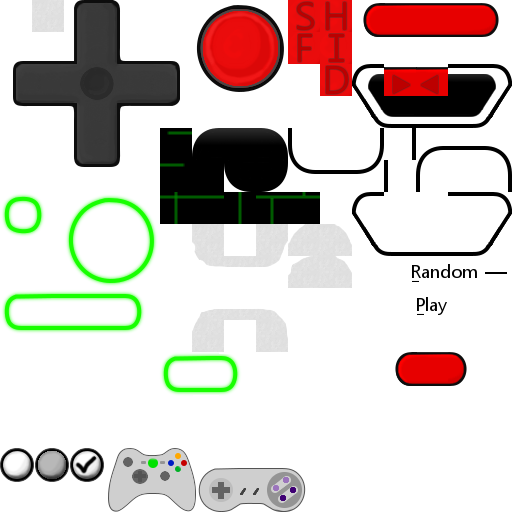
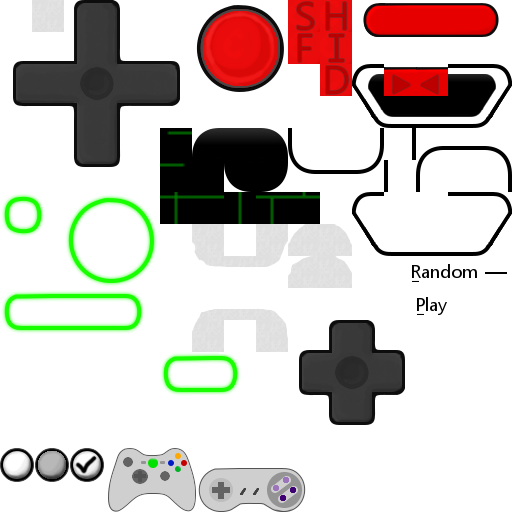
Added cost indicator checkmarks for Cubimals

Changed region(s): [[0.5625, 0.625, 0.9062, 0.8438]]

diff --git a/src/friends.js b/src/friends.js
@@ -22,6 +22,9 @@ RocketTux.Friends.prototype = {
 		this.bgImage.width = this.game.width;
 		this.bgImage.play('stand');
 		this.bgImage.fixedToCamera = true;
+		
+		//Sounds
+		this.sndFail = this.game.add.audio('collide');
 			
 		// Load menu tilemaps and draw game device
 		this.makeMenu();
@@ -53,11 +56,11 @@ RocketTux.Friends.prototype = {
 		this.btFR = this.game.add.button(422, 606, 'ui-map', this.pageFR, this, 'glow-recsml-over', 'glow-recsml-out', 'glow-recsml-down');
 		this.btH = this.game.add.button(255, 609, 'ui-map', this.helpF, this, 'glow-cir-over', 'glow-cir-out', 'glow-cir-down');
 		
-		this.btDpadUp = this.game.add.button(842, 511, 'ui-map', this.cMoveU, this, 'glow-sqr-over', 'glow-sqr-out', 'glow-sqr-down');
-		this.btDpadDown = this.game.add.button(842, 632, 'ui-map', this.cMoveD, this, 'glow-sqr-over', 'glow-sqr-out', 'glow-sqr-down');
-		this.btDpadLeft = this.game.add.button(780, 571, 'ui-map', this.cMoveL, this, 'glow-sqr-over', 'glow-sqr-out', 'glow-sqr-down');
-		this.btDpadRight = this.game.add.button(902, 571, 'ui-map', this.cMoveR, this, 'glow-sqr-over', 'glow-sqr-out', 'glow-sqr-down');	
-		this.btS = this.game.add.button(1055, 545, 'ui-map', this.cSet, this, 'glow-cir-over', 'glow-cir-out', 'glow-cir-down');
+		this.btDpadUp = this.game.add.button(841, 575, 'ui-map', this.cMoveU, this, 'glow-sqr-over', 'glow-sqr-out', 'glow-sqr-down');
+		this.btDpadDown = this.game.add.button(841, 634, 'ui-map', this.cMoveD, this, 'glow-sqr-over', 'glow-sqr-out', 'glow-sqr-down');
+		this.btDpadLeft = this.game.add.button(809, 603, 'ui-map', this.cMoveL, this, 'glow-sqr-over', 'glow-sqr-out', 'glow-sqr-down');
+		this.btDpadRight = this.game.add.button(873, 603, 'ui-map', this.cMoveR, this, 'glow-sqr-over', 'glow-sqr-out', 'glow-sqr-down');	
+		this.btS = this.game.add.button(1055, 577, 'ui-map', this.cSet, this, 'glow-cir-over', 'glow-cir-out', 'glow-cir-down');
 				
 		// Screen lines
 		var scrLines = this.game.add.graphics();
@@ -132,13 +135,27 @@ RocketTux.Friends.prototype = {
 		
 		// Cubimal cost icons
 		this.cIcons = this.game.add.group();
+		this.cCheck = this.game.add.group();
 		for (i = 0; i < 4; i++){
-			tmpIcon = this.cIcons.create(838 + (i*48), 436, 'atlas');
-			this.cIcons.visible = false;
-		}	
+			tmpIcon = this.cIcons.create(838 + (i*48), 436, 'atlas');	
+			
+			tempCheck = this.cCheck.create(846 + (i*48), 478, 'ui-map');
+			tempCheck.frameName = 'check-selected';
+			tempCheck.fixedToCamera = true;
+			tempCheck.tint = '0x1EDC00';
+			tempCheck.scale.setTo(0.50, 0.50);
+			tempCheck.visible = false;
+		}
+		this.cIcons.visible = false;
 		this.coinIcon = this.game.add.sprite(1040, 436, 'atlas');
 		this.coinIcon.frameName = 'ui-coin';
 		this.coinIcon.visible = false;
+		this.coinIconCheck = this.game.add.sprite(1048, 474, 'ui-map');
+		this.coinIconCheck.frameName = 'check-selected';
+		this.coinIconCheck.fixedToCamera = true;
+		this.coinIconCheck.tint = '0x1EDC00';
+		this.coinIconCheck.scale.setTo(0.50, 0.50);
+		this.coinIconCheck.visible = false;
 		
 		// Highlight rectangle
 		this.highlight;
@@ -189,6 +206,7 @@ RocketTux.Friends.prototype = {
 		// Check if they have all the items
 		for (i = 0; i < 10; i++){	
 			if (parseInt(localStorage.getItem('RocketTux-invItem' + RocketTux.frndItems[this.fPage][i])) < 1){
+				this.sndFail.play();
 				return;
 			}
 		}
@@ -289,8 +307,21 @@ RocketTux.Friends.prototype = {
 		// Show cost for highlighted Cubimal
 		for (i = 0; i < 4; i++){
 			this.cIcons.getChildAt(i).frameName =  'icon-' + RocketTux.cubCost[this.cPage[this.cSelectedRow]][i + 1];
+				
+			// Show check mark
+			if (parseInt(localStorage.getItem('RocketTux-invItem' + RocketTux.cubCost[this.cPage[this.cSelectedRow]][i + 1])) > 0){
+				this.cCheck.getChildAt(i).visible = true;
+			} else {
+				this.cCheck.getChildAt(i).visible = false;
+			}
 		}
 		this.cCoins.text = RocketTux.cubCost[this.cPage[this.cSelectedRow]][0];
+		// Show check mark
+		if (parseInt(localStorage.getItem('RocketTux-myWallet')) >= parseInt(this.cCoins.text)){
+			this.coinIconCheck.visible = true;
+		} else {
+			this.coinIconCheck.visible = false;
+		}
 		
 		var alreadyActive = '';
 		for (i = 0; i < 3; i++){
@@ -334,6 +365,7 @@ RocketTux.Friends.prototype = {
 		
 		if (fail == true){
 			console.log('Missing Items: ' + missingItems); // TODO: Replace with tooltip/message
+			this.sndFail.play();
 			return;
 		}
 		
@@ -410,56 +442,56 @@ RocketTux.Friends.prototype = {
 	this.layers = {
 		// Background texture that can be colorized
 		bg:[
-			'0,150,151,151,151,151,151,151,151,151,151,151,151,151,151,151,151,152,0,0,0,0,150,151,151,151,151,151,151,151,151,151,151,151,151,151,151,151,152,0,',
-			'0,166,1,1,1,1,1,1,1,1,1,1,1,1,1,1,1,168,0,0,0,0,166,1,1,1,1,1,1,1,1,1,1,1,1,1,1,1,168,0,',
-			'0,1,1,0,0,0,0,0,0,0,0,0,0,0,0,0,1,1,0,0,0,0,1,1,0,0,0,0,0,0,0,0,0,0,0,0,0,1,1,0,',
-			'0,1,0,0,0,0,0,0,0,0,0,0,0,0,0,0,0,1,0,0,0,0,1,0,0,0,0,0,0,0,0,0,0,0,0,0,0,0,1,0,',
-			'0,1,0,0,0,0,0,0,0,0,0,0,0,0,0,0,0,1,0,0,0,0,1,0,0,0,0,0,0,0,0,0,0,0,0,0,0,0,1,0,',
-			'0,1,0,0,0,0,0,0,0,0,0,0,0,0,0,0,0,1,0,0,0,0,1,0,0,0,0,0,0,0,0,0,0,0,0,0,0,0,1,0,',
-			'0,1,0,0,0,0,0,0,0,0,0,0,0,0,0,0,0,1,0,0,0,0,1,0,0,0,0,0,0,0,0,0,0,0,0,0,0,0,1,0,',
-			'0,1,0,0,0,0,0,0,0,0,0,0,0,0,0,0,0,1,0,0,0,0,1,0,0,0,0,0,0,0,0,0,0,0,0,0,0,0,1,0,',
-			'0,1,0,0,0,0,0,0,0,0,0,0,0,0,0,0,0,1,0,0,0,0,1,0,0,0,0,0,0,0,0,0,0,0,0,0,0,0,1,0,',
-			'0,1,0,0,0,0,0,0,0,0,0,0,0,0,0,0,0,1,0,0,0,0,1,0,0,0,0,0,0,0,0,0,0,0,0,0,0,0,1,0,',
-			'0,1,0,0,0,0,0,0,0,0,0,0,0,0,0,0,0,1,0,0,0,0,1,0,0,0,0,0,0,0,0,0,0,0,0,0,0,0,1,0,',
-			'0,1,0,0,0,0,0,0,0,0,0,0,0,0,0,0,0,1,0,0,0,0,1,0,0,0,0,0,0,0,0,0,0,0,0,0,0,0,1,0,',
-			'0,1,0,0,0,0,0,0,0,0,0,0,0,0,0,0,0,1,0,0,0,0,1,0,0,0,0,0,0,0,0,0,0,0,0,0,0,0,1,0,',
-			'0,1,0,0,0,0,0,0,0,0,0,0,0,0,0,0,0,1,0,0,0,0,1,0,0,0,0,0,0,0,0,0,0,0,0,0,0,0,1,0,',
-			'0,1,0,0,0,0,0,0,0,0,0,0,0,0,0,0,0,1,0,0,0,0,1,1,0,0,0,0,0,0,0,0,0,0,0,0,0,1,1,0,',
-			'0,1,0,0,0,0,0,0,0,0,0,0,0,0,0,0,0,1,0,0,0,0,1,1,1,1,1,1,1,1,1,1,1,1,1,1,1,1,1,0,',
-			'0,1,0,0,0,0,0,0,0,0,0,0,0,0,0,0,0,1,0,0,0,0,1,1,1,1,1,1,1,1,1,1,1,1,1,1,1,1,1,0,',
-			'0,1,1,0,0,0,0,0,0,0,0,0,0,0,0,0,1,1,0,0,0,0,1,1,1,1,1,1,1,1,1,1,1,1,1,1,1,1,1,0,',
-			'0,1,1,1,1,1,1,1,1,1,1,1,1,1,1,1,1,1,0,0,0,0,1,1,1,1,1,1,1,1,1,1,1,1,1,1,1,1,1,0,',
-			'0,1,1,1,1,1,1,1,1,1,1,1,1,1,1,1,1,1,0,0,0,0,1,1,1,1,1,1,1,1,1,1,1,1,1,1,1,1,1,0,',
-			'0,1,1,1,1,1,1,1,1,1,1,1,1,1,1,1,1,1,0,0,0,0,1,1,1,1,1,1,1,1,1,1,1,1,1,1,1,1,1,0,',
-			'0,118,1,1,1,1,1,1,1,1,1,1,1,1,1,1,1,120,0,0,0,0,118,1,1,1,1,1,1,1,1,1,1,1,1,1,1,1,120,0,',
-			'0,134,135,135,135,135,135,135,135,135,135,135,135,135,135,135,135,136,0,0,0,0,134,135,135,135,135,135,135,135,135,135,135,135,135,135,135,135,136,0,'
-	],
+				'0,150,151,151,151,151,151,151,151,151,151,151,151,151,151,151,151,152,0,0,0,0,150,151,151,151,151,151,151,151,151,151,151,151,151,151,151,151,152,0,',
+				'0,166,1,1,1,1,1,1,1,1,1,1,1,1,1,1,1,168,0,0,0,0,166,1,1,1,1,1,1,1,1,1,1,1,1,1,1,1,168,0,',
+				'0,1,1,0,0,0,0,0,0,0,0,0,0,0,0,0,1,1,0,0,0,0,1,1,0,0,0,0,0,0,0,0,0,0,0,0,0,1,1,0,',
+				'0,1,0,0,0,0,0,0,0,0,0,0,0,0,0,0,0,1,0,0,0,0,1,0,0,0,0,0,0,0,0,0,0,0,0,0,0,0,1,0,',
+				'0,1,0,0,0,0,0,0,0,0,0,0,0,0,0,0,0,1,0,0,0,0,1,0,0,0,0,0,0,0,0,0,0,0,0,0,0,0,1,0,',
+				'0,1,0,0,0,0,0,0,0,0,0,0,0,0,0,0,0,1,0,0,0,0,1,0,0,0,0,0,0,0,0,0,0,0,0,0,0,0,1,0,',
+				'0,1,0,0,0,0,0,0,0,0,0,0,0,0,0,0,0,1,0,0,0,0,1,0,0,0,0,0,0,0,0,0,0,0,0,0,0,0,1,0,',
+				'0,1,0,0,0,0,0,0,0,0,0,0,0,0,0,0,0,1,0,0,0,0,1,0,0,0,0,0,0,0,0,0,0,0,0,0,0,0,1,0,',
+				'0,1,0,0,0,0,0,0,0,0,0,0,0,0,0,0,0,1,0,0,0,0,1,0,0,0,0,0,0,0,0,0,0,0,0,0,0,0,1,0,',
+				'0,1,0,0,0,0,0,0,0,0,0,0,0,0,0,0,0,1,0,0,0,0,1,0,0,0,0,0,0,0,0,0,0,0,0,0,0,0,1,0,',
+				'0,1,0,0,0,0,0,0,0,0,0,0,0,0,0,0,0,1,0,0,0,0,1,0,0,0,0,0,0,0,0,0,0,0,0,0,0,0,1,0,',
+				'0,1,0,0,0,0,0,0,0,0,0,0,0,0,0,0,0,1,0,0,0,0,1,0,0,0,0,0,0,0,0,0,0,0,0,0,0,0,1,0,',
+				'0,1,0,0,0,0,0,0,0,0,0,0,0,0,0,0,0,1,0,0,0,0,1,0,0,0,0,0,0,0,0,0,0,0,0,0,0,0,1,0,',
+				'0,1,0,0,0,0,0,0,0,0,0,0,0,0,0,0,0,1,0,0,0,0,1,0,0,0,0,0,0,0,0,0,0,0,0,0,0,0,1,0,',
+				'0,1,0,0,0,0,0,0,0,0,0,0,0,0,0,0,0,1,0,0,0,0,1,0,0,0,0,0,0,0,0,0,0,0,0,0,0,0,1,0,',
+				'0,1,0,0,0,0,0,0,0,0,0,0,0,0,0,0,0,1,0,0,0,0,1,0,0,0,0,0,0,0,0,0,0,0,0,0,0,0,1,0,',
+				'0,1,0,0,0,0,0,0,0,0,0,0,0,0,0,0,0,1,0,0,0,0,1,1,0,0,0,0,0,0,0,0,0,0,0,0,0,1,1,0,',
+				'0,1,1,0,0,0,0,0,0,0,0,0,0,0,0,0,1,1,0,0,0,0,1,1,1,1,1,1,1,1,1,1,1,1,1,1,1,1,1,0,',
+				'0,1,1,1,1,1,1,1,1,1,1,1,1,1,1,1,1,1,0,0,0,0,1,1,1,1,1,1,1,1,1,1,1,1,1,1,1,1,1,0,',
+				'0,1,1,1,1,1,1,1,1,1,1,1,1,1,1,1,1,1,0,0,0,0,1,1,1,1,1,1,1,1,1,1,1,1,1,1,1,1,1,0,',
+				'0,1,1,1,1,1,1,1,1,1,1,1,1,1,1,1,1,1,0,0,0,0,1,1,1,1,1,1,1,1,1,1,1,1,1,1,1,1,1,0,',
+				'0,118,1,1,1,1,1,1,1,1,1,1,1,1,1,1,1,120,0,0,0,0,118,1,1,1,1,1,1,1,1,1,1,1,1,1,1,1,120,0,',
+				'0,134,135,135,135,135,135,135,135,135,135,135,135,135,135,135,135,136,0,0,0,0,134,135,135,135,135,135,135,135,135,135,135,135,135,135,135,135,136,0,'
+			],
 		// Foreground parts (frame, buttons, etc)
 		fg:[
-			'0,77,78,78,78,78,78,78,78,78,78,78,78,78,78,78,78,79,0,0,0,0,77,78,78,78,78,78,78,78,78,78,78,78,78,78,78,78,79,0,',
-			'0,93,0,0,0,0,0,0,0,0,0,0,0,0,0,0,0,95,0,0,0,0,93,0,0,0,0,0,0,0,0,0,0,0,0,0,0,0,95,0,',
-			'0,92,70,71,71,71,71,71,71,71,71,71,71,71,71,71,72,76,0,0,0,0,92,70,71,71,71,71,71,71,71,71,71,71,71,71,71,72,76,0,',
-			'0,92,86,86,86,86,86,86,86,86,86,86,86,86,86,86,86,76,0,0,0,0,92,86,86,86,86,86,86,86,86,86,86,86,86,86,86,86,76,0,',
-			'0,92,86,86,86,86,86,86,86,86,86,86,86,86,86,86,86,76,0,0,0,0,92,86,86,86,86,86,86,86,86,86,86,86,86,86,86,86,76,0,',
-			'0,92,86,86,86,86,86,86,86,86,86,86,86,86,86,86,86,76,0,0,0,0,92,86,86,86,86,86,86,86,86,86,86,86,86,86,86,86,76,0,',
-			'0,92,86,86,86,86,86,86,86,86,86,86,86,86,86,86,86,76,0,0,0,0,92,86,86,86,86,86,86,86,86,86,86,86,86,86,86,86,76,0,',
-			'0,92,86,86,86,86,86,86,86,86,86,86,86,86,86,86,86,76,0,0,0,0,92,86,86,86,86,86,86,86,86,86,86,86,86,86,86,86,76,0,',
-			'0,92,86,86,86,86,86,86,86,86,86,86,86,86,86,86,86,76,0,0,0,0,92,86,86,86,86,86,86,86,86,86,86,86,86,86,86,86,76,0,',
-			'0,92,86,86,86,86,86,86,86,86,86,86,86,86,86,86,86,76,0,0,0,0,92,86,86,86,86,86,86,86,86,86,86,86,86,86,86,86,76,0,',
-			'0,92,86,86,86,86,86,86,86,86,86,86,86,86,86,86,86,76,0,0,0,0,92,86,86,86,86,86,86,86,86,86,86,86,86,86,86,86,76,0,',
-			'0,92,86,86,86,86,86,86,86,86,86,86,86,86,86,86,86,76,0,0,0,0,92,86,86,86,86,86,86,86,86,86,86,86,86,86,86,86,76,0,',
-			'0,92,86,86,86,86,86,86,86,86,86,86,86,86,86,86,86,76,0,0,0,0,92,86,86,86,86,86,86,86,86,86,86,86,86,86,86,86,76,0,',
-			'0,92,86,86,86,86,86,86,86,86,86,86,86,86,86,86,86,76,0,0,0,0,92,86,86,86,86,86,86,86,86,86,86,86,86,86,86,86,76,0,',
-			'0,92,86,86,86,86,86,86,86,86,86,86,86,86,86,86,86,76,0,0,0,0,92,87,86,86,86,86,86,86,86,86,86,86,86,86,86,88,76,0,',
-			'0,92,86,86,86,86,86,86,86,86,86,86,86,86,86,86,86,76,0,0,0,0,92,0,0,0,0,0,0,0,0,0,0,0,0,0,0,0,76,0,',
-			'0,92,86,86,86,86,86,86,86,86,86,86,86,86,86,86,86,76,0,0,0,0,92,0,0,0,2,3,4,0,0,0,0,0,0,0,0,0,76,0,',
-			'0,92,87,86,86,86,86,86,86,86,86,86,86,86,86,86,88,76,0,0,0,0,92,0,16,17,18,19,20,21,0,0,0,6,7,8,0,0,76,0,',
-			'0,92,0,0,0,0,0,0,0,0,0,0,0,0,0,0,0,76,0,0,0,0,92,0,32,33,34,35,36,37,0,0,0,22,9,24,0,0,76,0,',
-			'0,92,0,11,45,15,0,0,6,7,8,0,0,11,44,15,0,76,0,0,0,0,92,0,48,49,50,51,52,53,0,0,0,38,39,40,0,0,76,0,',
-			'0,92,0,27,28,31,0,0,22,10,24,0,0,27,28,31,0,76,0,0,0,0,92,0,0,0,66,67,68,0,0,0,0,0,0,0,0,0,76,0,',
-			'0,73,0,0,0,0,0,0,38,39,40,0,0,0,0,0,0,75,0,0,0,0,73,0,0,0,82,83,84,0,0,0,0,0,0,0,0,0,75,0,',
-			'0,89,90,90,90,90,90,90,90,90,90,90,90,90,90,90,90,91,0,0,0,0,89,90,90,90,90,90,90,90,90,90,90,90,90,90,90,90,91,0,'
-		],
+				'0,77,78,78,78,78,78,78,78,78,78,78,78,78,78,78,78,79,0,0,0,0,77,78,78,78,78,78,78,78,78,78,78,78,78,78,78,78,79,0,',
+				'0,93,0,0,0,0,0,0,0,0,0,0,0,0,0,0,0,95,0,0,0,0,93,0,0,0,0,0,0,0,0,0,0,0,0,0,0,0,95,0,',
+				'0,92,70,71,71,71,71,71,71,71,71,71,71,71,71,71,72,76,0,0,0,0,92,70,71,71,71,71,71,71,71,71,71,71,71,71,71,72,76,0,',
+				'0,92,86,86,86,86,86,86,86,86,86,86,86,86,86,86,86,76,0,0,0,0,92,86,86,86,86,86,86,86,86,86,86,86,86,86,86,86,76,0,',
+				'0,92,86,86,86,86,86,86,86,86,86,86,86,86,86,86,86,76,0,0,0,0,92,86,86,86,86,86,86,86,86,86,86,86,86,86,86,86,76,0,',
+				'0,92,86,86,86,86,86,86,86,86,86,86,86,86,86,86,86,76,0,0,0,0,92,86,86,86,86,86,86,86,86,86,86,86,86,86,86,86,76,0,',
+				'0,92,86,86,86,86,86,86,86,86,86,86,86,86,86,86,86,76,0,0,0,0,92,86,86,86,86,86,86,86,86,86,86,86,86,86,86,86,76,0,',
+				'0,92,86,86,86,86,86,86,86,86,86,86,86,86,86,86,86,76,0,0,0,0,92,86,86,86,86,86,86,86,86,86,86,86,86,86,86,86,76,0,',
+				'0,92,86,86,86,86,86,86,86,86,86,86,86,86,86,86,86,76,0,0,0,0,92,86,86,86,86,86,86,86,86,86,86,86,86,86,86,86,76,0,',
+				'0,92,86,86,86,86,86,86,86,86,86,86,86,86,86,86,86,76,0,0,0,0,92,86,86,86,86,86,86,86,86,86,86,86,86,86,86,86,76,0,',
+				'0,92,86,86,86,86,86,86,86,86,86,86,86,86,86,86,86,76,0,0,0,0,92,86,86,86,86,86,86,86,86,86,86,86,86,86,86,86,76,0,',
+				'0,92,86,86,86,86,86,86,86,86,86,86,86,86,86,86,86,76,0,0,0,0,92,86,86,86,86,86,86,86,86,86,86,86,86,86,86,86,76,0,',
+				'0,92,86,86,86,86,86,86,86,86,86,86,86,86,86,86,86,76,0,0,0,0,92,86,86,86,86,86,86,86,86,86,86,86,86,86,86,86,76,0,',
+				'0,92,86,86,86,86,86,86,86,86,86,86,86,86,86,86,86,76,0,0,0,0,92,86,86,86,86,86,86,86,86,86,86,86,86,86,86,86,76,0,',
+				'0,92,86,86,86,86,86,86,86,86,86,86,86,86,86,86,86,76,0,0,0,0,92,86,86,86,86,86,86,86,86,86,86,86,86,86,86,86,76,0,',
+				'0,92,86,86,86,86,86,86,86,86,86,86,86,86,86,86,86,76,0,0,0,0,92,86,86,86,86,86,86,86,86,86,86,86,86,86,86,86,76,0,',
+				'0,92,86,86,86,86,86,86,86,86,86,86,86,86,86,86,86,76,0,0,0,0,92,87,86,86,86,86,86,86,86,86,86,86,86,86,86,88,76,0,',
+				'0,92,87,86,86,86,86,86,86,86,86,86,86,86,86,86,88,76,0,0,0,0,92,0,0,0,0,0,0,0,0,0,0,0,0,0,0,0,76,0,',
+				'0,92,0,0,0,0,0,0,0,0,0,0,0,0,0,0,0,76,0,0,0,0,92,0,0,169,170,171,172,0,0,0,0,6,7,8,0,0,76,0,',
+				'0,92,0,11,45,15,0,0,6,7,8,0,0,11,44,15,0,76,0,0,0,0,92,0,0,185,186,187,188,0,0,0,0,22,9,24,0,0,76,0,',
+				'0,92,0,27,28,31,0,0,22,10,24,0,0,27,28,31,0,76,0,0,0,0,92,0,0,201,202,203,204,0,0,0,0,38,39,40,0,0,76,0,',
+				'0,73,0,0,0,0,0,0,38,39,40,0,0,0,0,0,0,75,0,0,0,0,73,0,0,217,218,219,220,0,0,0,0,0,0,0,0,0,75,0,',
+				'0,89,90,90,90,90,90,90,90,90,90,90,90,90,90,90,90,91,0,0,0,0,89,90,90,90,90,90,90,90,90,90,90,90,90,90,90,90,91,0,'
+			],
 	};
 	
 	// Background texture
